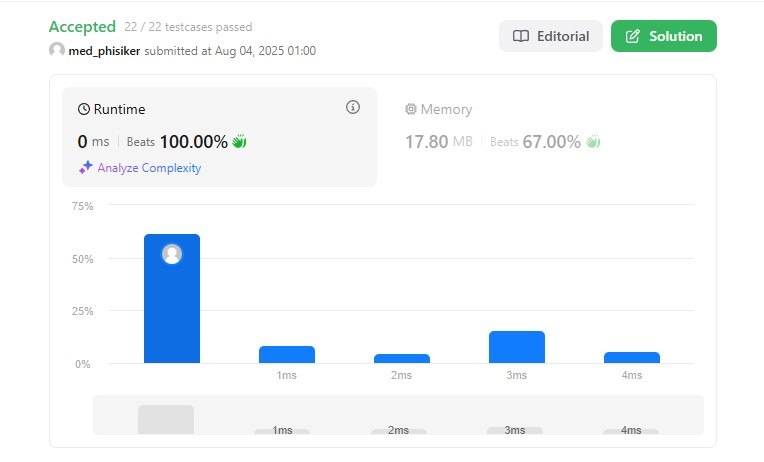
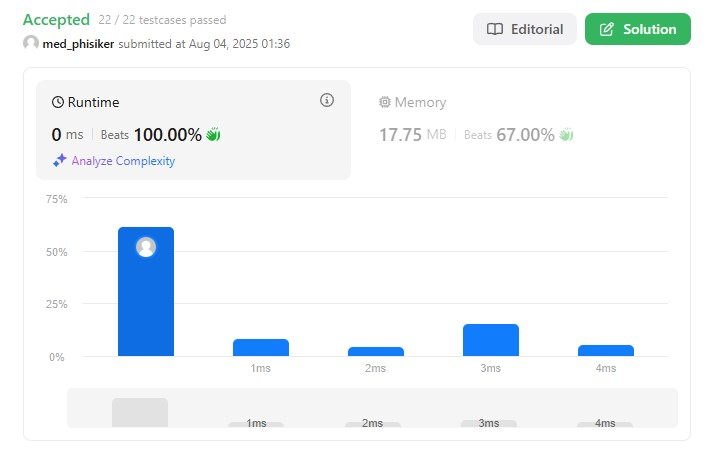
feat: еще чуть более оптимизированный вариант.
- Повышена читаемость кода

diff --git a/solution.py b/solution.py
@@ -24,14 +24,16 @@ class Solution:
             return False
 
         s_pointer = 0
+        len_s = len(s) # оптимизация
 
-        for t_pointer in range(len(t)):
-            s_is_complete = s_pointer < len(s)
-            if s_is_complete and s[s_pointer] == t[t_pointer]:
-                s_pointer += 1
-            
-            # ранний выход
-            if not s_is_complete:
+        for char_t in t:
+            # Если мы еще не нашли все символы s
+            if s_pointer < len_s:
+                # Если символы совпадают, продвигаем указатель в s
+                if s[s_pointer] == char_t:
+                    s_pointer += 1
+            else:
+                # Все символы s найдены, ранний выход
                 break
 
-        return s_pointer == len(s)
+        return s_pointer == len_s

diff --git a/README.md b/README.md
@@ -40,8 +40,11 @@
 
 2. **Ранний выход из цикла**: Когда все символы строки `s` найдены в строке `t`, алгоритм прекращает дальнейший поиск и возвращает `true`. Это улучшает производительность в случаях, когда подпоследовательность находится ближе к началу строки `t`.
 
-3. **Упрощенная логика**: Вместо использования двух указателей в явном виде, алгоритм использует один указатель для строки `s` и итерацию по строке `t` с помощью цикла `for`. Это упрощает код и делает его более читаемым.
-2. **Упрощенная логика**: Вместо использования двух указателей в явном виде, алгоритм использует один указатель для строки `s` и итерацию по строке `t` с помощью цикла `for`. Это упрощает код и делает его более читаемым.
+3. **Кэширование длины строки**: Длина строки `s` вычисляется один раз и сохраняется в переменной, чтобы избежать повторных вызовов функции `len()` в цикле.
+
+4. **Итерация по символам**: Вместо итерации по индексам строки `t`, алгоритм напрямую итерирует по символам, что упрощает код и может немного улучшить производительность.
+
+5. **Упрощенная логика**: Алгоритм использует один указатель для строки `s` и итерацию по строке `t` с помощью цикла `for`. Это упрощает код и делает его более читаемым.
 
 ### Сложность
 
